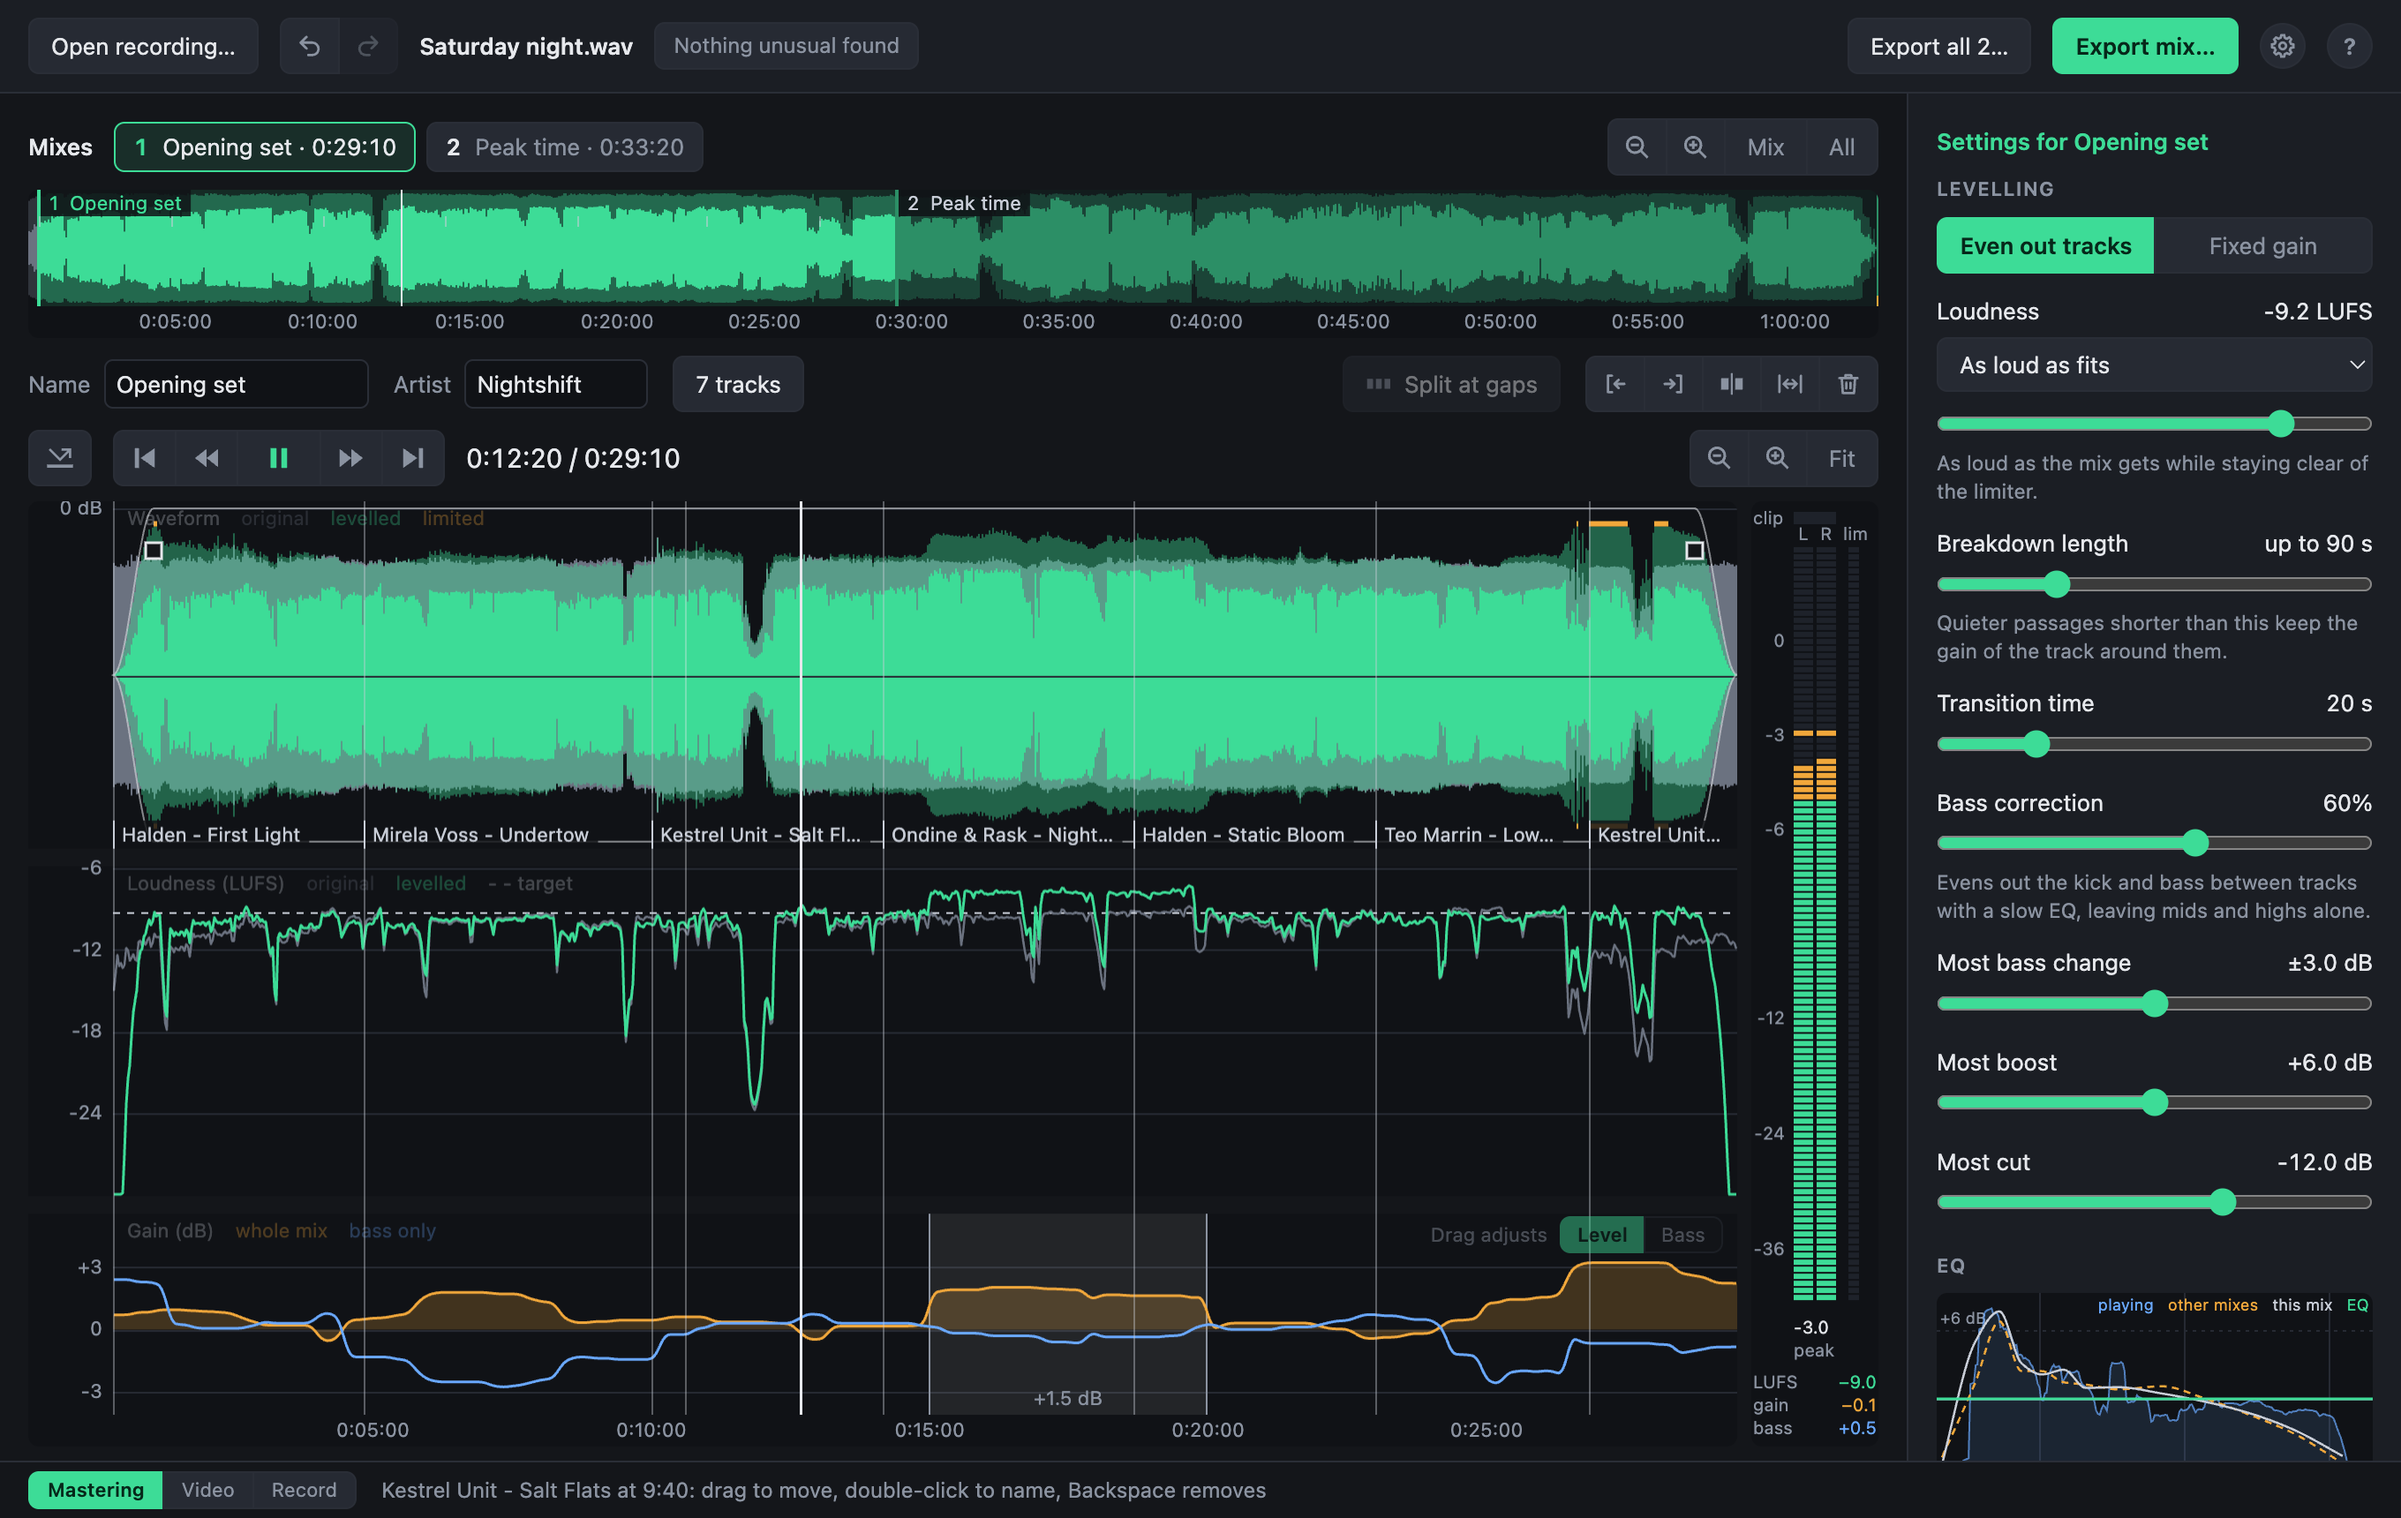
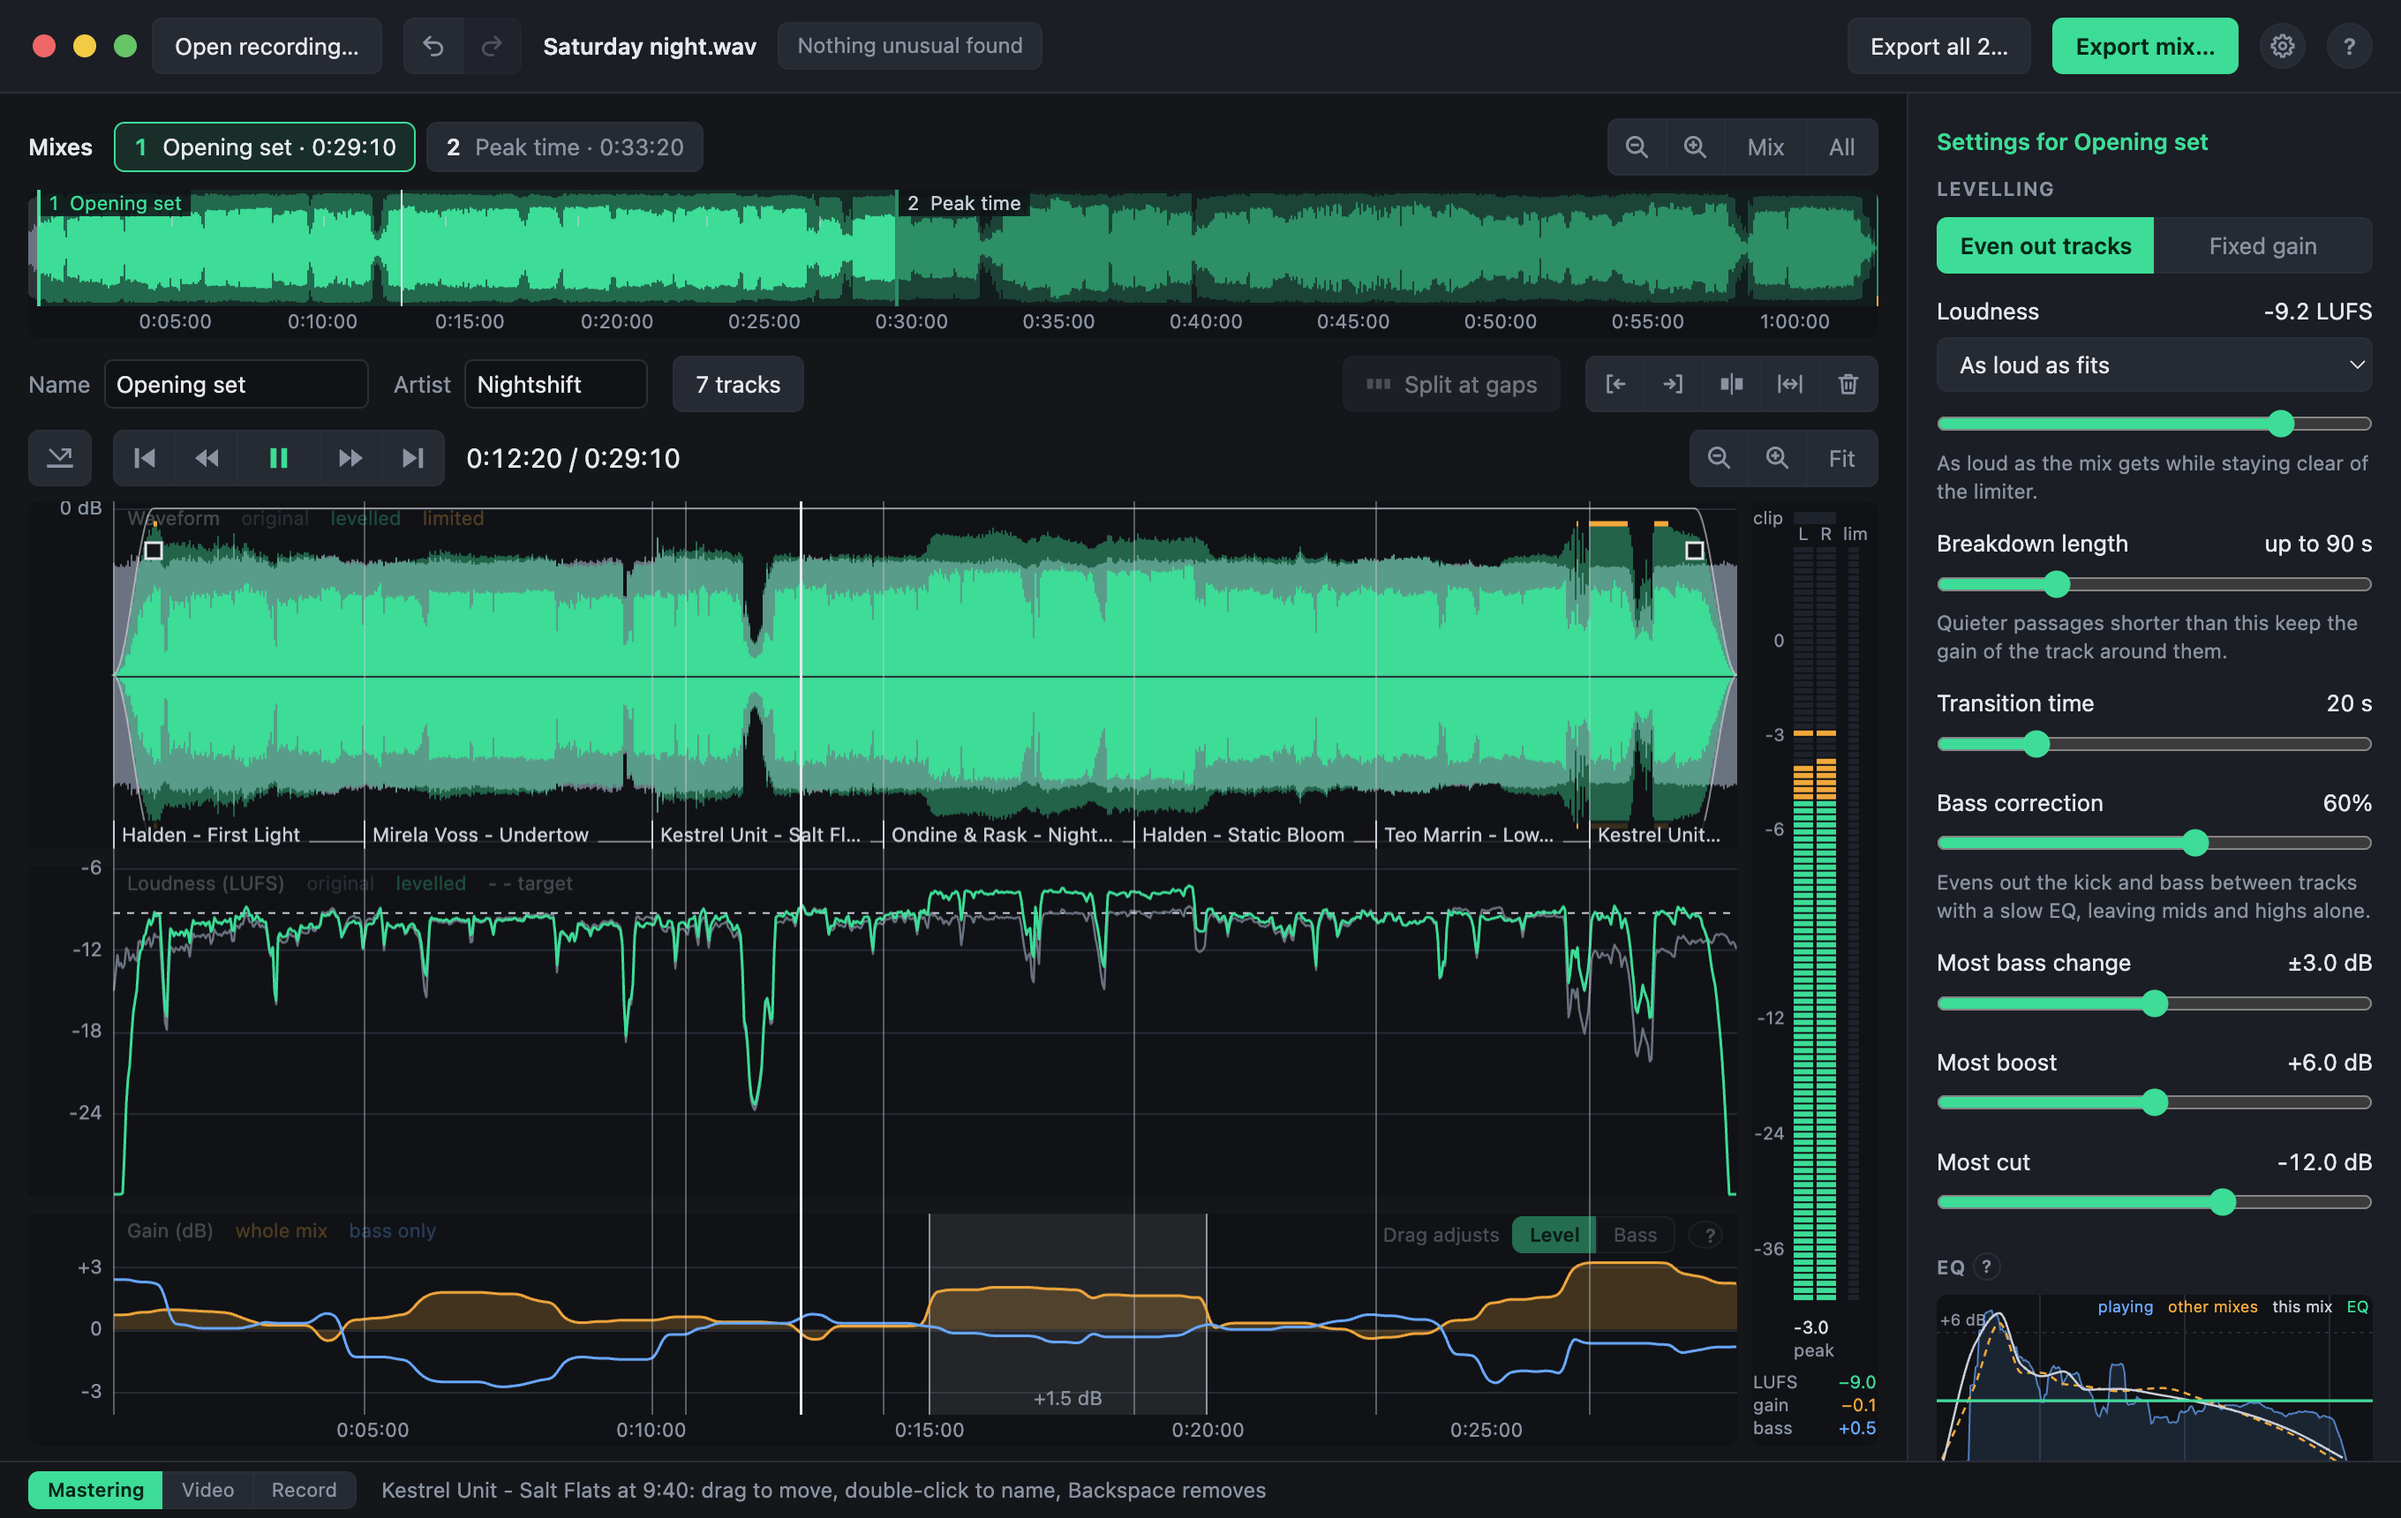
Draw the Mac window buttons in pictures, and take new ones
A window drawn off screen, as check mode draws the pictures for the website
and the manual, gets no window buttons from macOS, so the pictures showed an
empty gap where they go. In check mode on a Mac the window now draws them
itself, at the size, place and colours measured from a window on screen.

New pictures for the website and the manual: with the window buttons, and
with the ? buttons beside the EQ, adjusting by hand, the check-up, the
export dialog and a formula's box. The pictures of single layers are left as
they were, as nothing of this is in them.

diff --git a/src/app/renderer/renderer.ts b/src/app/renderer/renderer.ts
@@ -2858,6 +2858,15 @@ api.onUpdateAvailable((version) => {
 const onMac = navigator.userAgent.includes('Mac');
 // The top bar stands in for the Mac's title bar (insetTitleBar in main.ts).
 if (onMac) document.documentElement.dataset.titleBar = 'inset';
+// A window drawn off screen, as the pictures for the website and the manual are, has no window buttons: the system
+// draws them on screen only. Drawn here where they would be, the pictures show the window as it looks.
+if (onMac && new URLSearchParams(location.search).has('check')) {
+  const buttons = document.createElement('div');
+  buttons.id = 'window-buttons';
+  buttons.setAttribute('aria-hidden', 'true');
+  buttons.append(...['close', 'minimise', 'zoom'].map((name) => Object.assign(document.createElement('span'), { className: name })));
+  document.body.append(buttons);
+}
 api.onFullScreen((full) => document.documentElement.toggleAttribute('data-full-screen', full));
 const COMMAND = onMac ? '⌘' : 'Ctrl+';
 $('split-here').title = `Split at playhead (${COMMAND}E): cut this mix in two where the playhead is`;

diff --git a/src/app/renderer/styles.css b/src/app/renderer/styles.css
@@ -105,6 +105,19 @@ header {
 :root[data-title-bar="inset"][data-full-screen] header { padding-left: 16px; }
 header :is(button, input, select, a, [role="group"]) { -webkit-app-region: no-drag; }
 
+/*
+ * The window buttons as macOS 26 draws them, for pictures of a window drawn
+ * off screen, which has none (renderer.ts): their size, place and colours
+ * measured from a window on screen with insetTitleBar's position. The system's
+ * colours, the same in either theme, so not the theme's.
+ */
+#window-buttons { position: fixed; top: 19.25px; left: 18.25px; z-index: 1; display: flex; gap: 10px; pointer-events: none; }
+#window-buttons span { width: 13px; height: 13px; border-radius: 50%; }
+#window-buttons .close { background: #ec6765; }
+#window-buttons .minimise { background: #f2ca44; }
+#window-buttons .zoom { background: #65c466; }
+:root[data-full-screen] #window-buttons { display: none; }
+
 .spacer { flex: 1; }
 
 #file-name { color: var(--muted); overflow: hidden; text-overflow: ellipsis; white-space: nowrap; }

diff --git a/src/app/main.ts b/src/app/main.ts
@@ -1656,8 +1656,9 @@ function createWindow() {
   // In full screen the window's buttons are gone, and so is the room kept for them.
   window.on('enter-full-screen', () => window?.webContents.send('full-screen', true));
   window.on('leave-full-screen', () => window?.webContents.send('full-screen', false));
-  // Automated checks run the audio chain without making any sound.
-  window.loadURL(`${ORIGIN}/index.html${SCREENSHOT ? '?silent' : ''}`);
+  // Automated checks run the audio chain without making any sound, and draw what the system draws in a window
+  // seen on screen but not in one drawn off screen (`check`).
+  window.loadURL(`${ORIGIN}/index.html${SCREENSHOT ? '?silent&check' : ''}`);
   // Closing the window is quitting, whatever the hidden capture page: its question about a recording comes first.
   window.on('close', (event) => {
     if (!recorder.recording || quitWhileRecording) return;

diff --git a/AGENTS.md b/AGENTS.md
@@ -166,7 +166,10 @@ and curves in the code are block indexes unless a name says seconds.
   the Help window's toolbar move the window when dragged, and keep room for
   its buttons. Anything clickable put in them, or laid over them, needs
   `-webkit-app-region: no-drag`, or a click there moves the window instead.
-  Buttons, fields, menus and groups of buttons have it already.
+  Buttons, fields, menus and groups of buttons have it already. A window
+  drawn off screen in check mode has no window buttons, so the main window
+  draws its own in their place there (`#window-buttons`), for the pictures;
+  move one and move the other.
 - **Clicks are not drags.** Pointer handlers ignore movement under
   `DRAG_START_PX`. New drag interactions should do the same.
 
